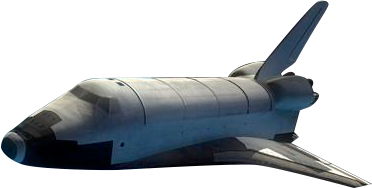
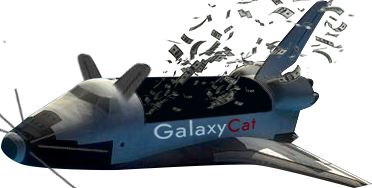
4545

diff --git a/about.html b/about.html
@@ -36,28 +36,32 @@
 			<div class="header">
 				<div>
 					<h1>About</h1>
-					<h2>We Have Free Templates for Everyone</h2>
-					<p>Our website templates are created with inspiration, checked for quality and originality and meticulously sliced and coded. What’s more, they’re absolutely free! You can do a lot with them. You can modify them. You can use them to design websites for clients, so long as you agree with the <a href="https://freewebsitetemplates.com/about/terms/">Terms of Use</a>. You can even remove all our links if you want to.</p>
+					<h2>After this story the whole bus cried...</h2>
+					<p>In a distant galaxy lived the cat-astronaut Felix from the planet Myaur.
+						When the resources of his home planet began to dry up, Felix went to Earth to earn money.</p>
 				</div>
 			</div>
 			<div class="body">
 				<div>
 					<img src="images/earth-satellite.jpg" alt="">
-					<h2>We Have More Templates for You</h2>
-					<p>Looking for more templates? Just browse through all our <a href="https://freewebsitetemplates.com/">Free Website Templates</a> and find what you’re looking for. But if you don’t find any website template you can use, you can try our <a href="https://freewebsitetemplates.com/freewebdesign/">Free Web Design</a> service and tell us all about it. Maybe you’re looking for something different, something special. And we love the challenge of doing something different and something special.</p>
+					<h2>I worked 8 days an hour...</h2>
+					<p>He found work in a cafe, quickly won the sympathy of visitors and became a local celebrity.
+						One day he met entrepreneur Anna, who invited him to become the mascot of her new project - the GalaxyCat token.
+						Felix became a world-famous star and helped other cats make money.</p>
 				</div>
 			</div>
 			<div class="footer">
 				<div>
 					<img src="images/space-shuttle.png" alt="">
-					<h2>Be Part of Our Community</h2>
-					<p>If you’re experiencing issues and concerns about this website template, join the discussion <a href="https://freewebsitetemplates.com/forums/">on our forum</a> and meet other people in the community who share the same interests with you.</p>
+					<h2>My father drank all this money by the way</h2>
+					<p>Felix sent the money he earned to Myaur, which helped restore the planet’s resources.
+						Returning home, Felix was hailed as a national hero, and friendly ties were established between the planets.</p>
 				</div>
 			</div>
 			<div class="section">
 				<div>
-					<h2>Template Details</h2>
-					<p>Design Version 1. Code version 3. Website Template details, discussion and updates for this <a href="https://freewebsitetemplates.com/discuss/spacescience/"> Space Science Website Template</a>. Website Template design by <a href="https://freewebsitetemplates.com/">Free Website Templates</a>. Please feel free to remove some or all the text and links of this page and replace it with your own About content.</p>
+					<h2>If you refuse, I'll fucking blow up your Eart, or whatever it's called.</h2>
+					<p>Now, after saving his home planet, Felix the cat began helping earthlings.</p>
 				</div>
 			</div>
 		</div>

diff --git a/index.html b/index.html
@@ -36,9 +36,9 @@
 			<div class="header">
 				<div>
 					<img src="images/satellite.png" alt="" class="satellite">
-					<h1>SOYUZ TMA-M</h1>
-					<h2>SPACECRAFT</h2>
-					<a href="blog.html" class="more">Read More</a>
+					<h1>GalaxyCat Token</h1>
+					<h2>deep space</h2>
+					<a href="about.html" class="more">Read More</a>
 					<h3>FEATURED PROJECTS</h3>
 					<ul>
 						<li>
@@ -59,7 +59,7 @@
 			<div class="body">
 				<div>
 					<h1>OUR MISSION</h1>
-					<p>This website template has been designed by Free Website Templates for you, for free. You can replace all this text with your own text.</p>
+					<p>My mission is simple, take my token to the cosmic level and colonize Euphyter, or whatever it is called</p>
 				</div>
 			</div>
 			<div class="footer">
@@ -67,22 +67,22 @@
 					<ul>
 						<li>
 							<h1>FEATURED VIDEO</h1>
-							<a href="blog.html"><img src="images/mars-rover.jpg" alt=""><span></span></a>
+							<a href="projects.html"><img src="images/mars-rover.jpg" alt=""><span></span></a>
 						</li>
 						<li>
 							<h1>LATEST BLOG</h1>
 							<ul>
 								<li>
-									<a href="blog.html"><img src="images/finding-planet.jpg" alt=""></a>
-									<h1>FINDING BEST COIN</h1>
+									<a href="projects.html"><img src="images/finding-planet.jpg" alt=""></a>
+									<h1>FINDING BEST TOKEN</h1>
 									<span>JULY 14, 2024</span>
-									<a href="blog.html" class="more">Read More</a>
+									<a href="projects.html" class="more">Read More</a>
 								</li>
 								<li>
-									<a href="blog.html"><img src="images/new-satellitedish.jpg" alt=""></a>
-									<h1>NEW BUBBLE</h1>
+									<a href="projects.html"><img src="images/new-satellitedish.jpg" alt=""></a>
+									<h1>NEW SHIT</h1>
 									<span>FEBRUARY 3, 2024</span>
-									<a href="blog.html" class="more">Read More</a>
+									<a href="projects.html" class="more">Read More</a>
 								</li>
 							</ul>
 						</li>

diff --git a/projects.html b/projects.html
@@ -35,21 +35,21 @@
 		<div id="body">
 			<div class="header">
 				<div>
-					<h1>Projects</h1>
+					<h1>Projects in Future!!!</h1>
 					<ul>
 						<li>
 							<a href="proj1.html"><img src="images/curious-rover.jpg" alt=""></a>
 							<div>
-								<h1>MARS CURIOSITY ROVER </h1>
-								<p>Our website templates are created with inspiration, checked for quality and originality and meticulously sliced and coded. What’s more, they’re absolutely free! You can do a lot with them. You can modify them. You can use them to design websites for clients, so long as you agree with the Terms of Use.</p>
+								<h1>Destroy cucumbers</h1>
+								<p>Every cat knows the story of being unexpectedly attacked from behind by that nasty long green thing. We are going to pay SPECIAL ATTENTION to every cucumber on planet earth and quickly destroy the entire population of cucumbers.</p>
 								<a href="proj1.html" class="more">Read More</a>
 							</div>
 						</li>
 						<li>
 							<a href="proj1.html"><img src="images/space-station.jpg" alt=""></a>
 							<div>
-								<h1>INTERTERNATIONAL SPACE STATION</h1>
-								<p>Looking for more templates? Just browse through all our Free Website Templates and find what you’re looking for. But if you don’t find any website template you can use, you can try our Free Web Design service and tell us all about it. Maybe you’re looking for something different, something special.</p>
+								<h1>Legalization of mint</h1>
+								<p>I'll make an agreement guys, I promise you my cat brothers.</p>
 								<a href="proj1.html" class="more">Read More</a>
 							</div>
 						</li>

diff --git a/proj1.html b/proj1.html
@@ -29,17 +29,6 @@
 							</li>
 						</ul>
 					</li>
-					<li class="menu">
-						<a href="blog.html">Blog</a>
-						<ul class="secondary">
-							<li>
-								<a href="singlepost.html">Single post</a>
-							</li>
-						</ul>
-					</li>
-					<li>
-						<a href="contact.html">Contact</a>
-					</li>
 				</ul>
 			</div>
 		</div>
@@ -48,9 +37,9 @@
 				<div>
 					<h1>Proj 1</h1>
 					<img src="images/moon-landing.jpg" alt="">
-					<h2>LUNAR LANDER 2023</h2>
-					<p>Our website templates are created with inspiration, checked for quality and originality and meticulously sliced and coded. What’s more, they’re absolutely free! You can do a lot with them. You can modify them. You can use them to design websites for clients, so long as you agree with the Terms of Use. You can even remove all our links if you want to.</p>
-					<p>Looking for more templates? Just browse through all our Free Website Templates and find what you’re looking for. But if you don’t find any website template you can use, you can try our Free Web Design service and tell us all about it. Maybe you’re looking for something different, something special.</p>
+					<h2>My sand 2024</h2>
+					<p>According to our haters (idiots) who claim that the desert was created by the climate and the like, but in fact I made it for fun for my brothers</p>
+					<p>Still don’t want to know where I got so much money from? Fatal error	</p>
 				</div>
 			</div>
 		</div>
